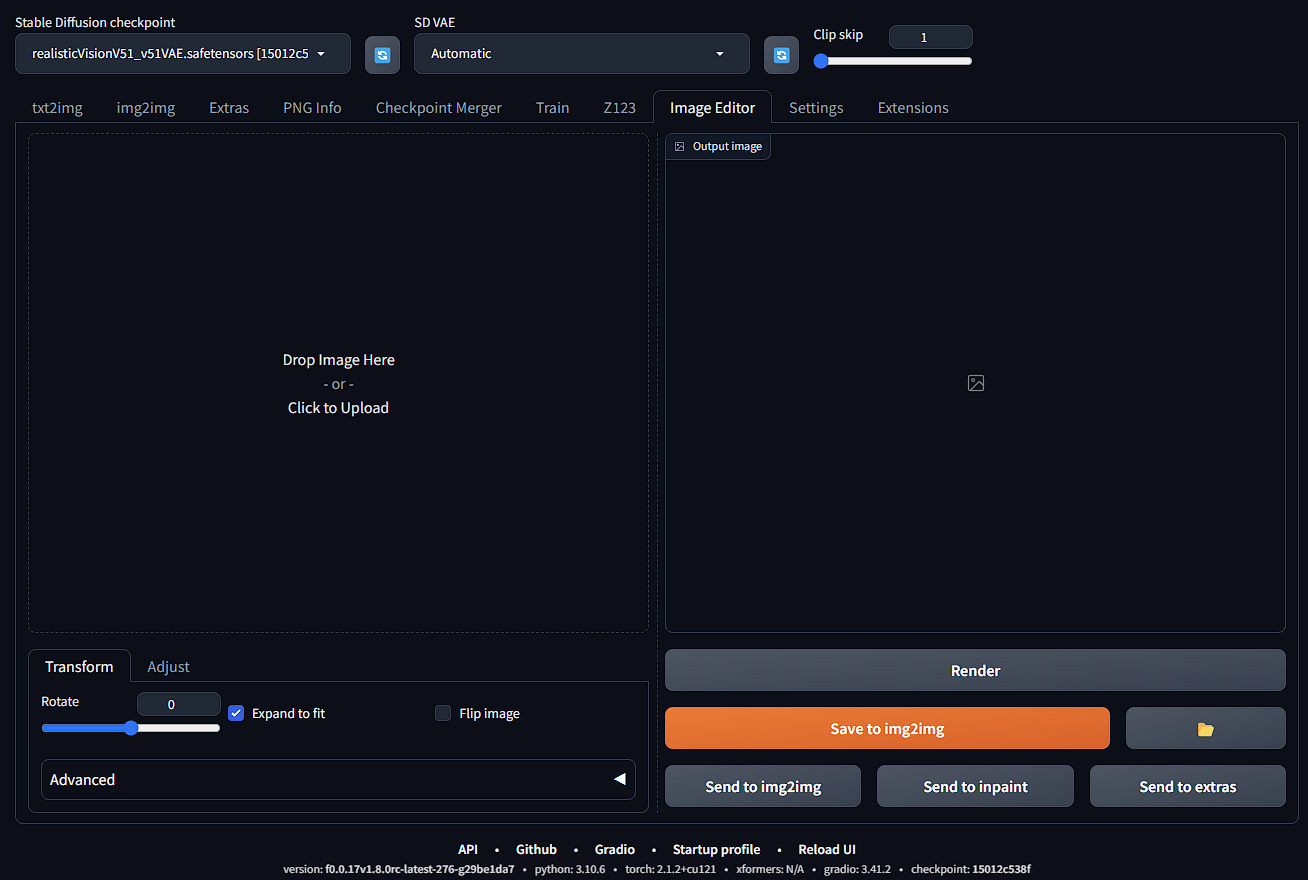
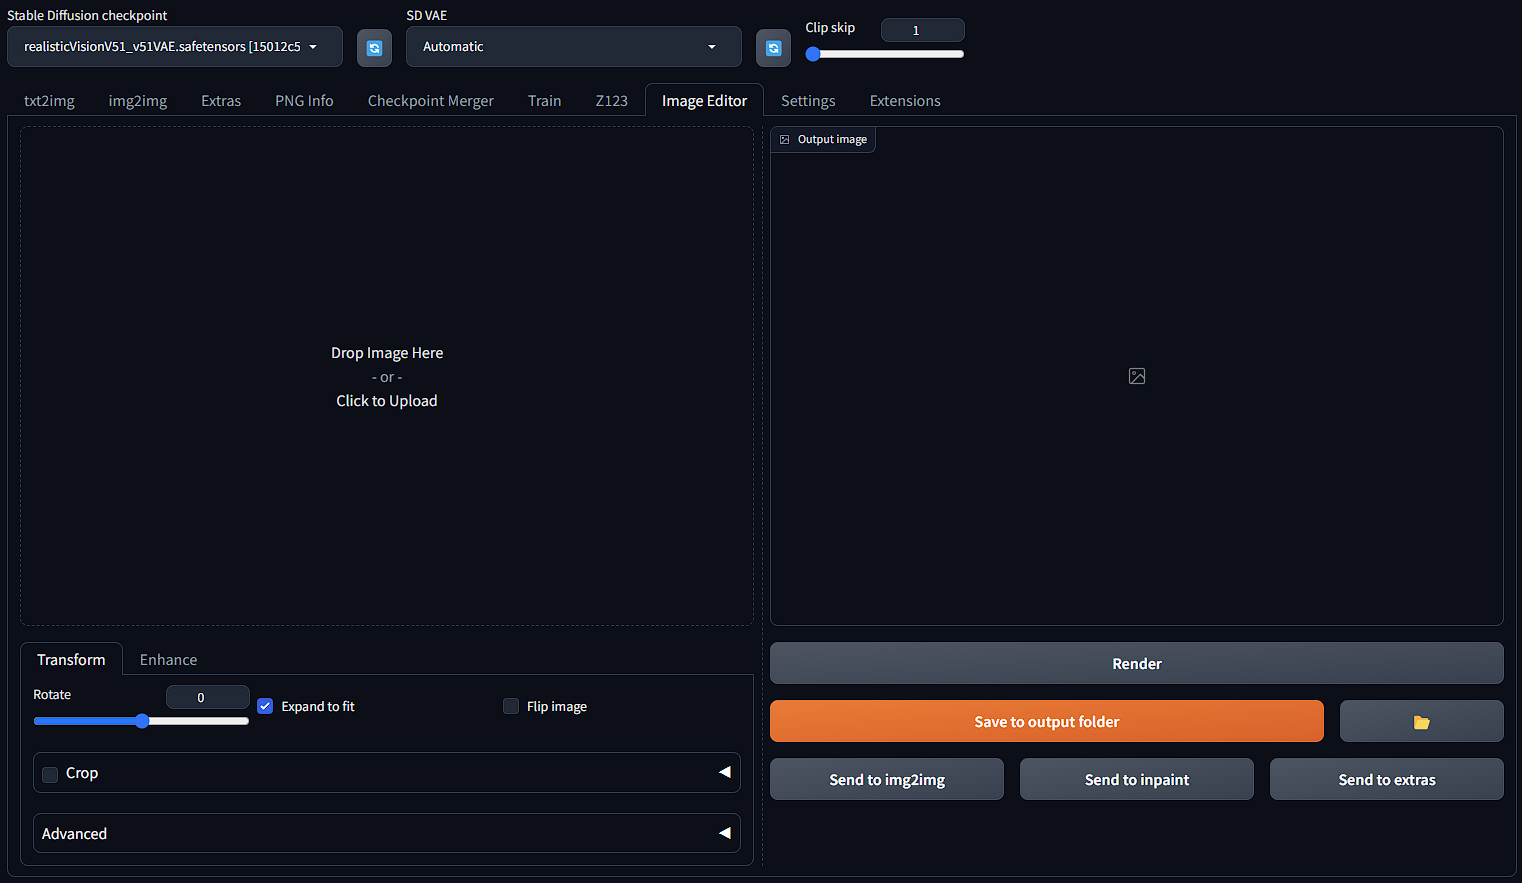
add full feature cropping with bounding box

diff --git a/scripts/sd-image-editor.py b/scripts/sd-image-editor.py
@@ -7,7 +7,7 @@ from modules.ui_components import ResizeHandleRow, InputAccordion, FormColumn, F
 from modules.paths_internal import default_output_dir
 import modules.infotext_utils as parameters_copypaste
 
-from PIL import Image, ImageEnhance, ImageFilter, ImageTransform
+from PIL import Image, ImageEnhance, ImageDraw
 
 def on_ui_settings():
     section = ('saving-paths', "Paths for saving")
@@ -22,9 +22,64 @@ def on_ui_settings():
     )
 
 
+def draw_bbox(img, crop_enabled, bbox_w, bbox_h, bbox_center_x, bbox_center_y):
+    if img is None:
+        return None
+    if crop_enabled:
+        # Calculate coordinates of bbox corners
+        w, h = img.size
+        left = (bbox_center_x - bbox_w/2)/100 * w 
+        upper = (bbox_center_y - bbox_h/2)/100 * h
+        right = (bbox_center_x + bbox_w/2)/100 * w
+        lower = (bbox_center_y + bbox_h/2)/100 * h
+        # Check bounding condition
+        left = 0 if left < 0 else left
+        upper = 0 if upper < 0 else upper
+        right = w if right > w else right
+        lower = h if lower > h else lower
+        # Draw bounding box
+        TINT_COLOR = (0, 0, 0)  # Black
+        TRANSPARENCY = .6  # Degree of transparency, 0-100%
+        OPACITY = int(255 * TRANSPARENCY)
+        OUTLINE_OPACITY = int(255 * TRANSPARENCY * 1)
+        BBOX_COLOR = (220, 220, 220)
+        # Create a bounding box overlay
+        overlay = Image.new('RGBA', img.size, TINT_COLOR+(OPACITY,)) # Shade everything outside bbox
+        draw = ImageDraw.Draw(overlay)  # Create a context for drawing things on it
+        draw.rectangle(((left, upper), (right, lower)), 
+                       fill=(255, 255, 255, 0), 
+                       outline=BBOX_COLOR+(OUTLINE_OPACITY,),
+                       width=2) # Make bounding box transparent
+        # Draw lines separating each side into 3 parts
+        third_left = left*1/3 + right*2/3
+        third_right = left*2/3 + right*1/3
+        third_up = lower*1/3+upper*2/3
+        third_down = lower*2/3+upper*1/3
+        draw.line([(third_left, upper), (third_left, lower)], fill=BBOX_COLOR+(OUTLINE_OPACITY,), width=1)
+        draw.line([(third_right, upper), (third_right, lower)], fill=BBOX_COLOR+(OUTLINE_OPACITY,), width=1)
+        draw.line([(left, third_up), (right, third_up)], fill=BBOX_COLOR+(OUTLINE_OPACITY,), width=1)
+        draw.line([(left, third_down), (right, third_down)], fill=BBOX_COLOR+(OUTLINE_OPACITY,), width=1)
+        # Merge image with bounding box overlay with alpha composite
+        img = Image.alpha_composite(img, overlay) 
+    return img
+
+
+def store_original_input(img):
+    return img
+
+
 def edit(img, degree, expand, flip, crop_enabled, bbox_w, bbox_h, bbox_center_x, bbox_center_y, interpolate_mode, color, contrast, brightness, sharpness):
     if img is None:
         return None
+    # Crop
+    if crop_enabled:
+        # Calculate coordinates of bbox corners
+        w, h = img.size
+        left = (bbox_center_x - bbox_w/2)/100 * w
+        upper = (bbox_center_y - bbox_h/2)/100 * h
+        right = (bbox_center_x + bbox_w/2)/100 * w
+        lower = (bbox_center_y + bbox_h/2)/100 * h
+        img = img.crop((left, upper, right, lower))
     # Flip
     if flip:
         img = img.transpose(method=Image.Transpose.FLIP_LEFT_RIGHT)
@@ -36,15 +91,6 @@ def edit(img, degree, expand, flip, crop_enabled, bbox_w, bbox_h, bbox_center_x,
     elif interpolate_mode == "Bicubic":
         resample_obj = Image.BICUBIC
     img = img.rotate(-degree, expand=expand, resample=resample_obj) # Rotate closewise
-    # Crop
-    if crop_enabled:
-        # Calculate coordinates of bbox corners
-        w, h = img.size
-        left = (bbox_center_x - bbox_w/2)/100 * w
-        upper = (bbox_center_y - bbox_h/2)/100 * h
-        right = (bbox_center_x + bbox_w/2)/100 * w
-        lower = (bbox_center_y + bbox_h/2)/100 * h
-        img = img.crop((left, upper, right, lower))
     # Enhance
     img_enhance = ImageEnhance.Color(img)
     img = img_enhance.enhance(color)
@@ -55,6 +101,7 @@ def edit(img, degree, expand, flip, crop_enabled, bbox_w, bbox_h, bbox_center_x,
     img_enhance = ImageEnhance.Sharpness(img)
     img = img_enhance.enhance(sharpness)
     return img
+
 
 def save_image(img):
     from random import choices
@@ -102,20 +149,26 @@ def open_folder():
     else:
         subprocess.Popen(["xdg-open", path])
 
+
 def on_ui_tabs():
     with gr.Blocks(analytics_enabled=False) as image_editor_interface:
         with ResizeHandleRow():
             with gr.Column():
-                init_img = gr.Image(label="Image for editing", 
-                                    elem_id="image_editing", 
-                                    show_label=False, 
-                                    source="upload", 
-                                    interactive=True, 
-                                    type="pil", 
-                                    tool=None, 
+                input_img = gr.Image(label="Image for editing", 
+                                     elem_id="image_editing", 
+                                     show_label=False, 
+                                     source="upload", 
+                                     interactive=True, 
+                                     type="pil", 
+                                     tool=None,
+                                     image_mode="RGBA",
+                                     height=500)
+                init_img = gr.Image(label="Output image", 
+                                    height=500, 
+                                    type="pil",
                                     image_mode="RGBA",
-                                    height=500)
-
+                                    interactive=False,
+                                    visible=False)
                 with gr.TabItem('Transform', id='transform', elem_id="transform_tab") as tab_transform:
                     with gr.Row():
                         rotate_slider = gr.Slider(
@@ -177,7 +230,7 @@ def on_ui_tabs():
                                 info="in increasing order of quality (with performance cost)"
                             )
                         
-                with gr.TabItem('Adjust', id='adjust', elem_id="adjust_tab") as tab_adjust:
+                with gr.TabItem('Enhance', id='enhance', elem_id="enhance_tab") as tab_adjust:
                     with gr.Row():
                         color_slider = gr.Slider(
                             minimum=0,
@@ -215,6 +268,7 @@ def on_ui_tabs():
                 output_img = gr.Image(label="Output image",
                                       height=500,
                                       type="pil",
+                                      image_mode="RGBA",
                                       interactive=False)
                 with gr.Row():
                     render_button = gr.Button(value="Render")
@@ -231,14 +285,17 @@ def on_ui_tabs():
                     parameters_copypaste.register_paste_params_button(parameters_copypaste.ParamBinding(
                         paste_button=button, tabname=tabname, source_image_component=output_img,
                     ))
-
-
-            control_inputs = [rotate_slider, rotate_expand_option, flip_option, crop_enabled, bbox_w, bbox_h, bbox_center_x, bbox_center_y, interpolation_options, \
-                color_slider, contrast_slider, brightness_slider, sharpness_slider]
             
             # Event listeners for all editing options
+            control_inputs = \
+                [rotate_slider, rotate_expand_option, flip_option, crop_enabled, bbox_w, bbox_h, bbox_center_x, bbox_center_y, interpolation_options, \
+                color_slider, contrast_slider, brightness_slider, sharpness_slider]
+            bbox_inputs = [crop_enabled, bbox_w, bbox_h, bbox_center_x, bbox_center_y]
+            # I/O
+            input_img.upload(store_original_input, inputs=[input_img], outputs=[init_img]) # Store persistent copy of the initial uploaded image in init_img
+            input_img.clear(store_original_input, inputs=[input_img], outputs=[init_img])
             
-            init_img.upload(edit, inputs=[init_img, *control_inputs], outputs=[output_img])
+            init_img.change(edit, inputs=[init_img, *control_inputs], outputs=[output_img])
             render_button.click(edit, inputs=[init_img, *control_inputs], outputs=[output_img])
             save_button.click(save_image, inputs=[output_img], outputs=[])
             open_folder_button.click(open_folder, inputs=[], outputs=[])
@@ -251,7 +308,14 @@ def on_ui_tabs():
             bbox_h.release(edit, inputs=[init_img, *control_inputs], outputs=[output_img])
             bbox_center_x.release(edit, inputs=[init_img, *control_inputs], outputs=[output_img])
             bbox_center_y.release(edit, inputs=[init_img, *control_inputs], outputs=[output_img])
-            interpolation_options.select(edit, inputs=[init_img, *control_inputs], outputs=[output_img])
+            interpolation_options.input(edit, inputs=[init_img, *control_inputs], outputs=[output_img])
+            # Draw bounding box
+            init_img.change(draw_bbox, inputs=[init_img, *bbox_inputs], outputs=[input_img])
+            crop_enabled.select(draw_bbox, inputs=[init_img, *bbox_inputs], outputs=[input_img])
+            bbox_w.release(draw_bbox, inputs=[init_img, *bbox_inputs], outputs=[input_img])
+            bbox_h.release(draw_bbox, inputs=[init_img, *bbox_inputs], outputs=[input_img])
+            bbox_center_x.release(draw_bbox, inputs=[init_img, *bbox_inputs], outputs=[input_img])
+            bbox_center_y.release(draw_bbox, inputs=[init_img, *bbox_inputs], outputs=[input_img])
             # Enhance tab
             color_slider.release(edit, inputs=[init_img, *control_inputs], outputs=[output_img])
             contrast_slider.release(edit, inputs=[init_img, *control_inputs], outputs=[output_img])

diff --git a/README.md b/README.md
@@ -7,7 +7,7 @@
 <p align = "center"><b>A simple, lightweight, and easy-to-use image editor for Stable Diffusion Web UI</b></p>
 <br>
 
-This image editor is natively built for the [A1111 Stable Diffusion Web UI](https://github.com/AUTOMATIC1111/stable-diffusion-webui) ecosystem (compatible with [Forge](https://github.com/lllyasviel/stable-diffusion-webui-forge)) that offers integration with other core functions of SD Web UI to speed up your workflows. Quickly rotate or enhance image colors, then send it to img2img in just a few seconds! 🚀🚀🚀
+This image editor is natively built for the [A1111 Stable Diffusion Web UI](https://github.com/AUTOMATIC1111/stable-diffusion-webui) ecosystem (compatible with [Forge](https://github.com/lllyasviel/stable-diffusion-webui-forge)) that offers integration with other core functions of SD Web UI to speed up your workflows. Quickly crop, rotate, enhance image, and send it to img2img in just a few seconds! 🚀🚀🚀
 
 ---
 ## ➡ Installation
@@ -25,10 +25,16 @@ This image editor is natively built for the [A1111 Stable Diffusion Web UI](http
 
 ---
 ## ➡ Example usage
-Flip and adjust color, contrast, brightness
-![](readme-img/case-1.png)
+Crop and adjust color, contrast, brightness
+![](readme-img/case-1a.png)
+Send result to inpainting
+![](readme-img/case-1b.png)
 
 ---
 ## ➡ Todo list
+- [x] Add cropping (built from scratch for Gradio 3)
+- [ ] Add send to image editor buttons
+- [ ] Add Gradio built in cropping tool (only available once A1111 is upgraded to Gradio 4)
+- [ ] Add resize
 - [ ] Add more adjust features and filters
-- [ ] Add cropping and resize
+
